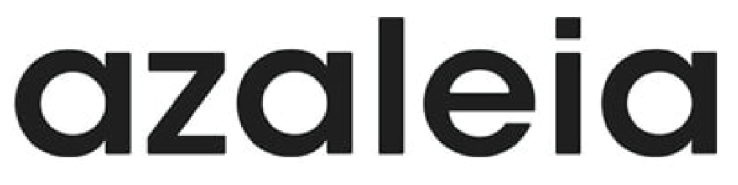
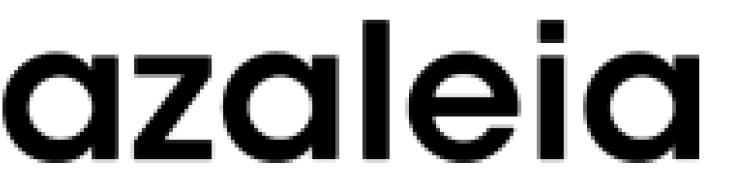
att

diff --git a/disantini/evolutiva-teste1/script.js b/disantini/evolutiva-teste1/script.js
@@ -278,16 +278,21 @@ if (window.innerWidth <= 768) {
                         })
                         .then(function (data) {
                             let brand = (data.product.brand).toLowerCase();
-                            let productName = data.product.productName
+                            let productName = (data.product.productName).toLowerCase();
 
                             let image = document.createElement("img")
                             image.classList.add("imageSS")
                             if (brand == "moleca" || productName.includes("moleca")) {
                                 image.src = "https://github.com/ErosSuperSonic/supersonic-projetos/blob/main/disantini/evolutiva-teste1/image/moleca.png?raw=true"
                                 insertImage(image)
-                            } else if (brand == "zaxy" || productName.includes("zaxy")) {
-                                image.src = "https://raw.githubusercontent.com/ErosSuperSonic/supersonic-projetos/c8eccfadb6b6cc094a264f23a37fc824ff0fc10b/disantini/evolutiva-teste1/image/zaxy_logo_new.svg"
-                                insertImage(image)
+                            } else if (brand == "zaxy" || brand == "grendene" || productName.includes("zaxy")) {
+                                if (productName.includes("azaleia")) {
+                                    image.src = "https://github.com/ErosSuperSonic/supersonic-projetos/blob/main/disantini/evolutiva-teste1/image/Azaleia.png?raw=true"
+                                    insertImage(image)
+                                } else {
+                                    image.src = "https://raw.githubusercontent.com/ErosSuperSonic/supersonic-projetos/c8eccfadb6b6cc094a264f23a37fc824ff0fc10b/disantini/evolutiva-teste1/image/zaxy_logo_new.svg"
+                                    insertImage(image)
+                                }
                             } else if (brand == "nike" || productName.includes("nike")) {
                                 image.src = "https://github.com/ErosSuperSonic/supersonic-projetos/blob/main/disantini/evolutiva-teste1/image/nike.png?raw=true"
                                 insertImage(image)

diff --git a/disantini/evolutiva-teste1/style.css b/disantini/evolutiva-teste1/style.css
@@ -314,8 +314,9 @@
     }
 
     .imageSS {
-        width: 127.63px;
+        width: fit-content;
         height: 25px;
         margin-bottom: 15px;
+        object-fit: contain;
     }
 }
